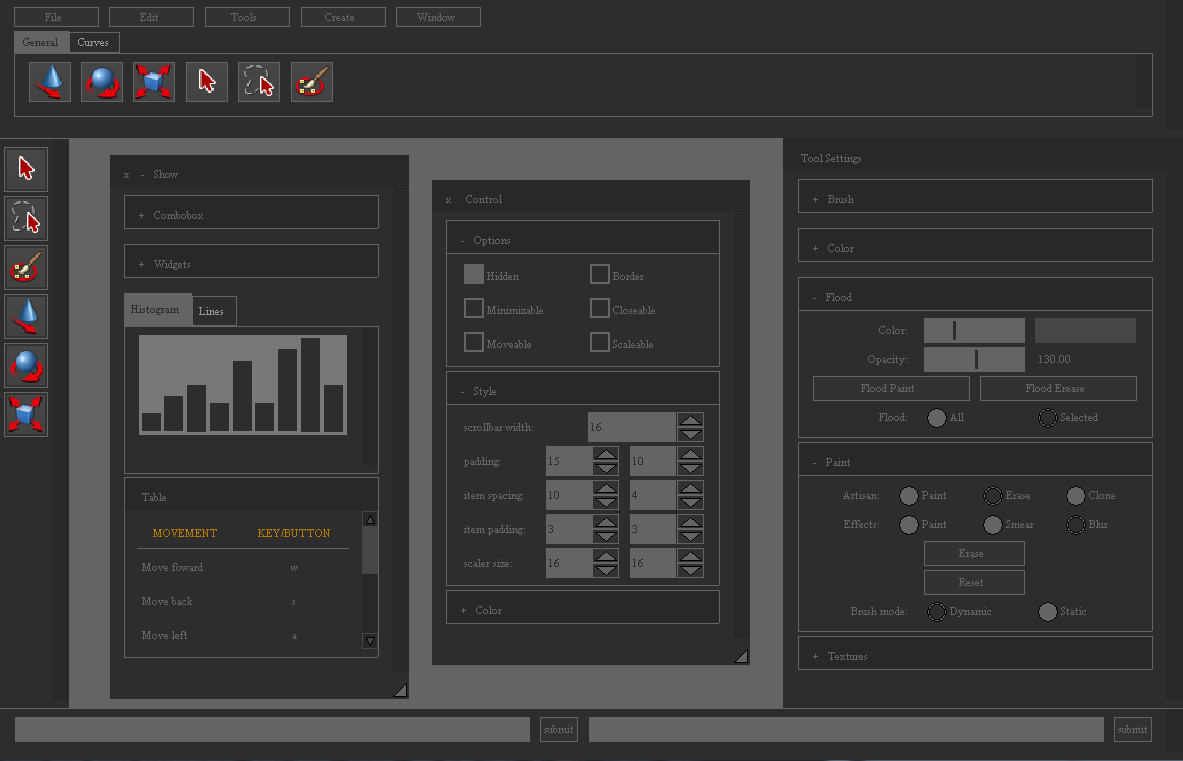
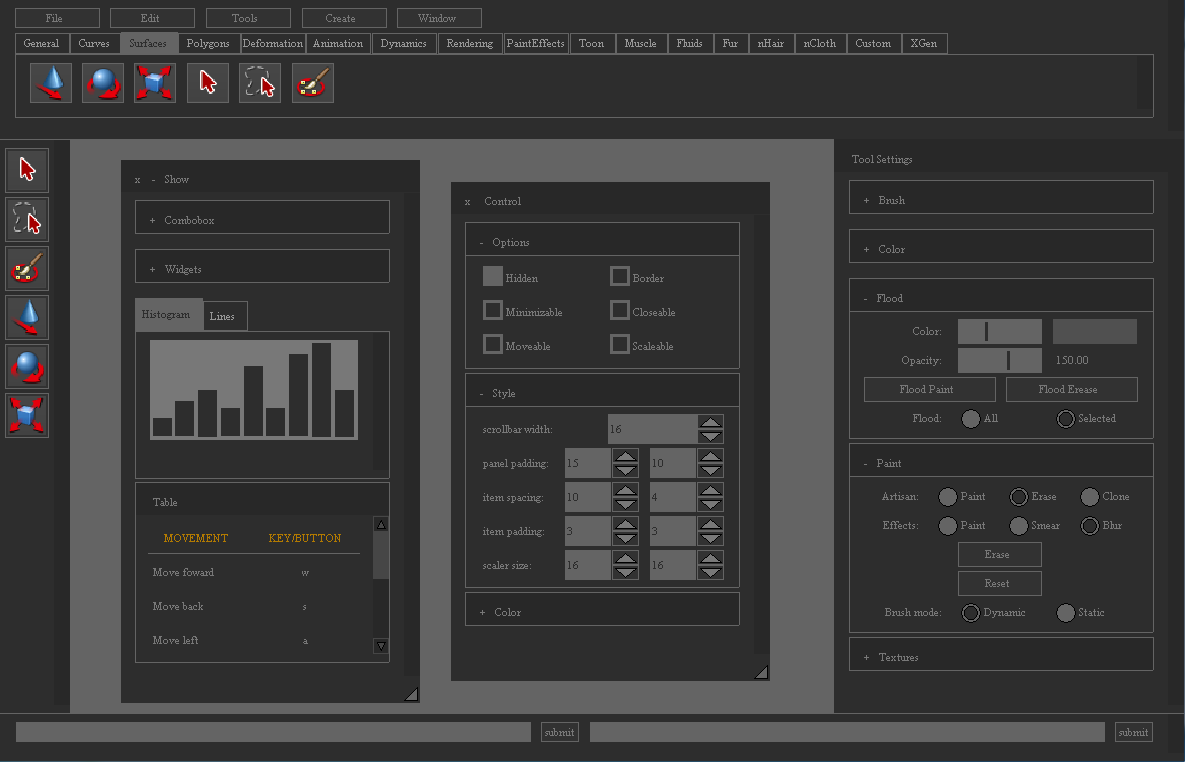
small update

diff --git a/demo/demo.c b/demo/demo.c
@@ -1,5 +1,5 @@
 #define MAX_BUFFER  64
-#define MAX_MEMORY  (256 * 1024)
+#define MAX_MEMORY  (64 * 1024)
 #define WINDOW_WIDTH 1200
 #define WINDOW_HEIGHT 800
 
@@ -177,8 +177,8 @@ widget_panel(struct gui_panel_layout *panel, struct show_window *demo)
     gui_panel_row(panel, 30, 1);
     demo->item_current = gui_panel_selector(panel, items, LEN(items), demo->item_current);
     demo->spinner = gui_panel_spinner(panel, 0, demo->spinner, 250, 10, &demo->spinner_active);
-    if (gui_panel_shell(panel, demo->command_buffer, &demo->command_length, MAX_BUFFER, &demo->command_active))
-        demo->command_length = 0;
+    if (gui_panel_shell(panel, demo->command_buffer, &demo->command_length, MAX_BUFFER,
+        &demo->command_active)) demo->command_length = 0;
     demo->input_length = gui_panel_edit(panel, demo->input_buffer, demo->input_length,
         MAX_BUFFER, &demo->input_active, GUI_INPUT_DEFAULT);
 }
@@ -231,7 +231,7 @@ init_show(struct show_window *win, struct gui_config *config, struct gui_font *f
     gui_panel_hook_init(&win->hook, 120, 160, 300, 545,
         GUI_PANEL_BORDER|GUI_PANEL_MOVEABLE|
         GUI_PANEL_CLOSEABLE|GUI_PANEL_SCALEABLE|
-        GUI_PANEL_MINIMIZABLE, config, font);
+        GUI_PANEL_MINIMIZABLE|GUI_PANEL_HIDDEN, config, font);
     gui_stack_push(stack, &win->hook);
 
     win->widget_tab = GUI_MINIMIZED;
@@ -278,7 +278,11 @@ update_flags(struct gui_panel_layout *panel, struct control_window *control)
     gui_flags i = 0x01;
     gui_size n = 0;
     gui_flags res = 0;
-    const char *options[] = {"Hidden", "Border", "Minimizable", "Closeable", "Moveable", "Scaleable"};
+    const char *options[] = {
+        "Hidden", "Border",
+        "Minimizable", "Closeable",
+        "Moveable", "Scaleable"
+    };
     gui_panel_row(panel, 30, 2);
     do {
         if (gui_panel_check(panel, options[n++], (control->show_flags & i) ? gui_true : gui_false))
@@ -300,7 +304,7 @@ style_tab(struct gui_panel_layout *panel, struct gui_config *config)
     config->properties[GUI_PROPERTY_SCROLLBAR_WIDTH].y = (float)tx;
 
     gui_panel_row(panel, 30, 3);
-    gui_panel_label(panel, "padding:", GUI_TEXT_LEFT);
+    gui_panel_label(panel, "panel padding:", GUI_TEXT_LEFT);
     tx = gui_panel_spinner(panel, 0, (gui_int)config->properties[GUI_PROPERTY_PADDING].x, 20, 1, NULL);
     ty = gui_panel_spinner(panel, 0, (gui_int)config->properties[GUI_PROPERTY_PADDING].y, 20, 1, NULL);
     config->properties[GUI_PROPERTY_PADDING].x = (float)tx;
@@ -435,9 +439,9 @@ brush_tab(struct gui_panel_layout *panel, struct settings_window *win)
 {
     gui_panel_row(panel, 20, 2);
     gui_panel_label(panel, "Radius (U):", GUI_TEXT_RIGHT);
-    win->radiusu = gui_panel_slider(panel, 0, win->radiusu, 20, 0.5);
+    win->radiusu = gui_panel_slider(panel, 0, win->radiusu, 20, 1);
     gui_panel_label(panel, "Radius (L):", GUI_TEXT_RIGHT);
-    win->radiusl = gui_panel_slider(panel, 0, win->radiusl, 20, 0.5);
+    win->radiusl = gui_panel_slider(panel, 0, win->radiusl, 20, 1);
 
     gui_panel_row(panel, 25, 3);
     gui_panel_seperator(panel, 1);
@@ -533,24 +537,17 @@ static void
 texture_tab(struct gui_panel_layout *panel, struct settings_window *win)
 {
     const char *attributes[] = {"Color", "Normals", "Depth"};
-    gui_panel_row(panel, 25, 3);
-    gui_panel_label(panel, "Attribute:", GUI_TEXT_RIGHT);
+    gui_panel_row(panel, 25, 1);
     win->attribute = gui_panel_selector(panel, attributes, LEN(attributes), win->attribute);
-    gui_panel_seperator(panel, 2);
     if (gui_panel_button_text(panel, "Assign", GUI_BUTTON_DEFAULT))
         fprintf(stdout, "assign/edit textures button pressed!\n");
-    gui_panel_seperator(panel, 2);
     if (gui_panel_button_text(panel, "Save", GUI_BUTTON_DEFAULT))
         fprintf(stdout, "save textures button pressed!\n");
-    gui_panel_seperator(panel, 2);
     if (gui_panel_button_text(panel, "Reload", GUI_BUTTON_DEFAULT))
         fprintf(stdout, "reload textures button pressed!\n");
 
-    gui_panel_seperator(panel, 2);
     win->update_on_stroke = gui_panel_check(panel, "Update on stroke", win->update_on_stroke);
-    gui_panel_seperator(panel, 2);
     win->save_on_stroke = gui_panel_check(panel, "Save on stroke", win->save_on_stroke);
-    gui_panel_seperator(panel, 2);
     win->extend_seam_color = gui_panel_check(panel, "Extend seam color", win->extend_seam_color);
 }
 
@@ -590,26 +587,31 @@ static void
 update_menu(struct menubar_window *win, struct gui_layout *layout,
     struct gui_input *in, struct gui_canvas *canvas, struct demo_gui *demo)
 {
-    /* TODO(vurtun): probably want this to be a little bit more extensive*/
-    gui_size cols;
-    const char *tabs[] = {"General", "Curves"};
+    /* TODO(vurtun): probably want this to be a little bit more expressive */
     struct level {const char *name; const int next;};
     static const struct level levels[][32] = {
         {{"File", 1}, {"Edit", 2}, {"Tools", 3}, {"Create", 4}, {"Window", 5}, {NULL, -1}},
         {{"Back", 0}, {"New", 0}, {"Open", 0}, {"Quit", 0}, {NULL, -1}},
         {{"Back", 0}, {"Undo", 0}, {"Redo", 0}, {"Copy", 0}, {"Paste", 0}, {NULL, -1}},
         {{"Back", 0}, {"Selection", 6}, {"Transform", 7}, {NULL, -1}},
-	{{"Back", 0}, {"Sphere", 0}, {"Cube", 0}, {"Cylinder", 0}, {NULL, -1}},
-	{{"Back", 0}, {"General Editor", 0}, {"Node Editor", 0}, {NULL, -1}},
+        {{"Back", 0}, {"Sphere", 0}, {"Cube", 0}, {"Cylinder", 0}, {NULL, -1}},
+        {{"Back", 0}, {"General Editor", 0}, {"Node Editor", 0}, {NULL, -1}},
         {{"Home", 0}, {"Back", 3}, {"Rectangle", 0}, {"Elipse", 0}, {NULL, -1}},
         {{"Home", 0}, {"Back", 3}, {"Align", 0}, {"Move", 0}, {NULL, -1}}
     };
+    const char *tabs[] = {
+        "General", "Curves", "Surfaces", "Polygons", "Deformation", "Animation", "Dynamics",
+        "Rendering", "PaintEffects", "Toon", "Muscle", "Fluids", "Fur", "nHair", "nCloth",
+        "Custom", "XGen"
+    };
 
+    gui_size cols;
     const struct level *iter = levels[win->current];
     struct gui_panel_layout panel;
     struct gui_panel_layout tab;
     struct demo_img *images = &demo->images;
 
+    /* menus */
     gui_panel_hook_begin_tiled(&panel, &win->hook, layout, GUI_SLOT_TOP, 0, NULL, canvas, in);
     gui_panel_row(&panel, 20, 12);
     while (iter->name) {
@@ -617,12 +619,13 @@ update_menu(struct menubar_window *win, struct gui_layout *layout,
             fprintf(stdout, "button: %s pressed!\n", iter->name);
             if (iter->next >= 0)
                 win->current = iter->next;
-	    if (!strcmp(iter->name, "Quit"))
-		demo->running = gui_false;
+            if (!strcmp(iter->name, "Quit"))
+                demo->running = gui_false;
         }
         iter++;
     }
 
+    /* toolbar */
     gui_panel_row(&panel, 85, 1);
     gui_config_push_property(&demo->config, GUI_PROPERTY_PADDING, 15, 5);
     gui_config_push_property(&demo->config, GUI_PROPERTY_ITEM_PADDING, 1, 1);
@@ -630,32 +633,32 @@ update_menu(struct menubar_window *win, struct gui_layout *layout,
 
     cols = gui_panel_row_columns(&tab, 40);
     gui_panel_row(&tab, 40, cols);
-    if (win->selection == 1) {
-	if (gui_panel_button_image(&tab, images->select, GUI_BUTTON_DEFAULT))
-	    fprintf(stdout, "select button pressed!\n");
-	if (gui_panel_button_image(&tab, images->lasso, GUI_BUTTON_DEFAULT))
-	    fprintf(stdout, "lasso button pressed!\n");
-	if (gui_panel_button_image(&tab, images->paint, GUI_BUTTON_DEFAULT))
-	    fprintf(stdout, "paint button pressed!\n");
-	if (gui_panel_button_image(&tab, images->move, GUI_BUTTON_DEFAULT))
-	    fprintf(stdout, "move button pressed!\n");
-	if (gui_panel_button_image(&tab, images->rotate, GUI_BUTTON_DEFAULT))
-	    fprintf(stdout, "rotate button pressed!\n");
-	if (gui_panel_button_image(&tab, images->scale, GUI_BUTTON_DEFAULT))
-	    fprintf(stdout, "scale button pressed!\n");
+    if (win->selection % 2) {
+        if (gui_panel_button_image(&tab, images->select, GUI_BUTTON_DEFAULT))
+            fprintf(stdout, "select button pressed!\n");
+        if (gui_panel_button_image(&tab, images->lasso, GUI_BUTTON_DEFAULT))
+            fprintf(stdout, "lasso button pressed!\n");
+        if (gui_panel_button_image(&tab, images->paint, GUI_BUTTON_DEFAULT))
+            fprintf(stdout, "paint button pressed!\n");
+        if (gui_panel_button_image(&tab, images->move, GUI_BUTTON_DEFAULT))
+            fprintf(stdout, "move button pressed!\n");
+        if (gui_panel_button_image(&tab, images->rotate, GUI_BUTTON_DEFAULT))
+            fprintf(stdout, "rotate button pressed!\n");
+        if (gui_panel_button_image(&tab, images->scale, GUI_BUTTON_DEFAULT))
+            fprintf(stdout, "scale button pressed!\n");
     } else {
-	if (gui_panel_button_image(&tab, images->move, GUI_BUTTON_DEFAULT))
-	    fprintf(stdout, "move button pressed!\n");
-	if (gui_panel_button_image(&tab, images->rotate, GUI_BUTTON_DEFAULT))
-	    fprintf(stdout, "rotate button pressed!\n");
-	if (gui_panel_button_image(&tab, images->scale, GUI_BUTTON_DEFAULT))
-	    fprintf(stdout, "scale button pressed!\n");
-	if (gui_panel_button_image(&tab, images->select, GUI_BUTTON_DEFAULT))
-	    fprintf(stdout, "select button pressed!\n");
-	if (gui_panel_button_image(&tab, images->lasso, GUI_BUTTON_DEFAULT))
-	    fprintf(stdout, "lasso button pressed!\n");
-	if (gui_panel_button_image(&tab, images->paint, GUI_BUTTON_DEFAULT))
-	    fprintf(stdout, "paint button pressed!\n");
+        if (gui_panel_button_image(&tab, images->move, GUI_BUTTON_DEFAULT))
+            fprintf(stdout, "move button pressed!\n");
+        if (gui_panel_button_image(&tab, images->rotate, GUI_BUTTON_DEFAULT))
+            fprintf(stdout, "rotate button pressed!\n");
+        if (gui_panel_button_image(&tab, images->scale, GUI_BUTTON_DEFAULT))
+            fprintf(stdout, "scale button pressed!\n");
+        if (gui_panel_button_image(&tab, images->select, GUI_BUTTON_DEFAULT))
+            fprintf(stdout, "select button pressed!\n");
+        if (gui_panel_button_image(&tab, images->lasso, GUI_BUTTON_DEFAULT))
+            fprintf(stdout, "lasso button pressed!\n");
+        if (gui_panel_button_image(&tab, images->paint, GUI_BUTTON_DEFAULT))
+            fprintf(stdout, "paint button pressed!\n");
     }
     gui_panel_shelf_end(&panel, &tab);
     gui_config_pop_property(&demo->config);
@@ -669,7 +672,7 @@ update_status(struct status_window *win, struct gui_layout *layout,
 {
     struct gui_panel_layout panel;
     gui_panel_hook_begin_tiled(&panel, &win->hook, layout, GUI_SLOT_BOTTOM, 0, NULL, canvas, in);
-    gui_panel_row(&panel, 25, 2);
+    gui_panel_row(&panel, 20, 2);
     if (gui_panel_shell(&panel, win->mel_buffer, &win->mel_length, MAX_BUFFER, &win->mel_active))
         win->mel_length = 0;
     if (gui_panel_shell(&panel, win->py_buffer, &win->py_length, MAX_BUFFER, &win->py_active))
@@ -686,17 +689,17 @@ update_toolbar(struct toolbar_window *win, struct gui_layout *layout, struct dem
     gui_panel_hook_begin_tiled(&panel, &win->hook, layout, GUI_SLOT_LEFT, 0, NULL, canvas, in);
     gui_panel_row(&panel, 45, 1);
     if (gui_panel_button_image(&panel, images->select, GUI_BUTTON_DEFAULT))
-	fprintf(stdout, "select button pressed!\n");
+        fprintf(stdout, "select button pressed!\n");
     if (gui_panel_button_image(&panel, images->lasso, GUI_BUTTON_DEFAULT))
-	fprintf(stdout, "lasso button pressed!\n");
+        fprintf(stdout, "lasso button pressed!\n");
     if (gui_panel_button_image(&panel, images->paint, GUI_BUTTON_DEFAULT))
-	fprintf(stdout, "paint button pressed!\n");
+        fprintf(stdout, "paint button pressed!\n");
     if (gui_panel_button_image(&panel, images->move, GUI_BUTTON_DEFAULT))
-	fprintf(stdout, "move button pressed!\n");
+        fprintf(stdout, "move button pressed!\n");
     if (gui_panel_button_image(&panel, images->rotate, GUI_BUTTON_DEFAULT))
-	fprintf(stdout, "rotate button pressed!\n");
+        fprintf(stdout, "rotate button pressed!\n");
     if (gui_panel_button_image(&panel, images->scale, GUI_BUTTON_DEFAULT))
-	fprintf(stdout, "scale button pressed!\n");
+        fprintf(stdout, "scale button pressed!\n");
     gui_panel_hook_end(&panel, &win->hook);
     gui_config_pop_property(config);
 }
@@ -742,10 +745,10 @@ background_demo(struct demo_gui *gui, struct gui_input *input, struct gui_comman
     struct settings_window *settings = &gui->settings;
 
     /* setup layout split to fit screen */
-    ratio.right = 400.0f / gui->width;
+    ratio.right = 350.0f / gui->width;
     ratio.top = 140.0f / gui->height;
     ratio.left = 70.0f / gui->width;
-    ratio.bottom = 52.0f / gui->height;
+    ratio.bottom = 48.0f / gui->height;
     ratio.centerv = 1.0f - (ratio.top + ratio.bottom);
     ratio.centerh = 1.0f - (ratio.right + ratio.left);
     gui_layout_init(&gui->layout, &ratio);

diff --git a/gui.c b/gui.c
@@ -1679,7 +1679,7 @@ gui_panel_begin(struct gui_panel_layout *layout, struct gui_panel *panel,
                 panel->y + layout->header_height, config->colors[GUI_COLOR_BORDER]);
         if (panel->flags & GUI_PANEL_BORDER_HEADER)
             canvas->draw_line(canvas->userdata, panel->x, panel->y + layout->header_height,
-                panel->x + panel->w, panel->y + layout->header_height, config->colors[GUI_COLOR_BORDER]);
+                panel->x+panel->w, panel->y+layout->header_height, config->colors[GUI_COLOR_BORDER]);
     }
     canvas->scissor(canvas->userdata,layout->clip.x,layout->clip.y,layout->clip.w,layout->clip.h);
     return ret;
@@ -1807,7 +1807,7 @@ gui_panel_row_columns(const struct gui_panel_layout *layout, gui_size widget_siz
     cols = (gui_size)(layout->width / widget_size);
     size = (cols * (gui_size)item_spacing.x) + 2 * (gui_size)panel_padding.x + widget_size * cols;
     while ((size > layout->width) && --cols)
-        size = (cols * (gui_size)item_spacing.x) + 2 * (gui_size)panel_padding.x + widget_size * cols;
+        size = (cols*(gui_size)item_spacing.x) + 2 * (gui_size)panel_padding.x + widget_size * cols;
     return cols;
 }
 
@@ -2892,19 +2892,19 @@ gui_panel_shelf_begin(struct gui_panel_layout *parent, struct gui_panel_layout *
         struct gui_button button;
         gui_float button_x, button_y;
         gui_float button_w, button_h;
-    gui_size text_width = font->width(font->userdata, (const gui_char*)tabs[i], strsiz(tabs[i]));
-    text_width = text_width + (gui_size)(2 * item_spacing.x);
+        gui_size text_width = font->width(font->userdata, (const gui_char*)tabs[i], strsiz(tabs[i]));
+        text_width = text_width + (gui_size)(2 * item_spacing.x);
 
-    button_y = header_y;
-    button_h = header_h;
-    button_x = header_x;
-    button_w = MIN(item_width, text_width);
-    button.border = 1;
-    button.padding.x = item_padding.x;
-    button.padding.y = item_padding.y;
-    button.foreground = config->colors[GUI_COLOR_BORDER];
-    header_x += MIN(item_width, text_width);
-    if ((button_x + button_w) >= (bounds.x + bounds.w)) break;
+        button_y = header_y;
+        button_h = header_h;
+        button_x = header_x;
+        button_w = MIN(item_width, text_width);
+        button.border = 1;
+        button.padding.x = item_padding.x;
+        button.padding.y = item_padding.y;
+        button.foreground = config->colors[GUI_COLOR_BORDER];
+        header_x += MIN(item_width, text_width);
+        if ((button_x + button_w) >= (bounds.x + bounds.w)) break;
         if (active != i) {
             button_y += item_padding.y;
             button_h -= item_padding.y;

diff --git a/demo/win32.c b/demo/win32.c
@@ -318,11 +318,11 @@ execute(XSurface *surf, struct gui_command_list *list)
             surface_draw_text(surf, win->font, t->x, t->y, t->w, t->h, (const char*)t->string,
                     t->length, t->bg.r, t->bg.g, t->bg.b, t->fg.r, t->fg.g, t->fg.b);
         } break;
-	case GUI_COMMAND_IMAGE: {
+        case GUI_COMMAND_IMAGE: {
             const struct gui_command_image *i = GUI_FETCH(image, cmd);
-	    HBITMAP bitmap = i->img;
+            HBITMAP bitmap = i->img;
             surface_draw_image(surf, bitmap, i->x, i->y, i->w, i->h);
-	} break;
+        } break;
         default: break;
         }
     }
@@ -460,7 +460,7 @@ WinMain(HINSTANCE hInstance, HINSTANCE prev, LPSTR lpCmdLine, int shown)
     gui.images.move = loadimg("icon/move.bmp");
     gui.images.rotate = loadimg("icon/rotate.bmp");
     gui.images.scale = loadimg("icon/scale.bmp");
-	
+
     while (gui.running && !quit) {
         /* Input */
         MSG msg;

diff --git a/gui.h b/gui.h
@@ -617,9 +617,9 @@ gui_float gui_scroll(const struct gui_canvas*, gui_float x, gui_float y,
 void gui_config_default(struct gui_config*);
 struct gui_vec2 gui_config_property(const struct gui_config*, enum gui_panel_properties);
 struct gui_color gui_config_color(const struct gui_config*, enum gui_panel_colors);
+void gui_config_push_property(struct gui_config*, enum gui_panel_properties, gui_float, gui_float);
 void gui_config_push_color(struct gui_config*, enum gui_panel_colors,
-                    gui_byte r, gui_byte g, gui_byte b, gui_byte a);
-void gui_config_push_property(struct gui_config*, enum gui_panel_properties, gui_float x, gui_float y);
+                    gui_byte, gui_byte, gui_byte, gui_byte);
 void gui_config_pop_color(struct gui_config*);
 void gui_config_pop_property(struct gui_config*);
 void gui_config_reset_colors(struct gui_config*);

diff --git a/Readme.md b/Readme.md
@@ -1,5 +1,5 @@
 # GUI
-This is a bloat free stateless immediate mode graphical user interface toolkit
+This is a bloat free minimal state immediate mode graphical user interface toolkit
 written in ANSI C. It was designed as a embeddable user interface for graphical
 application and does not have any direct dependencies.
 
